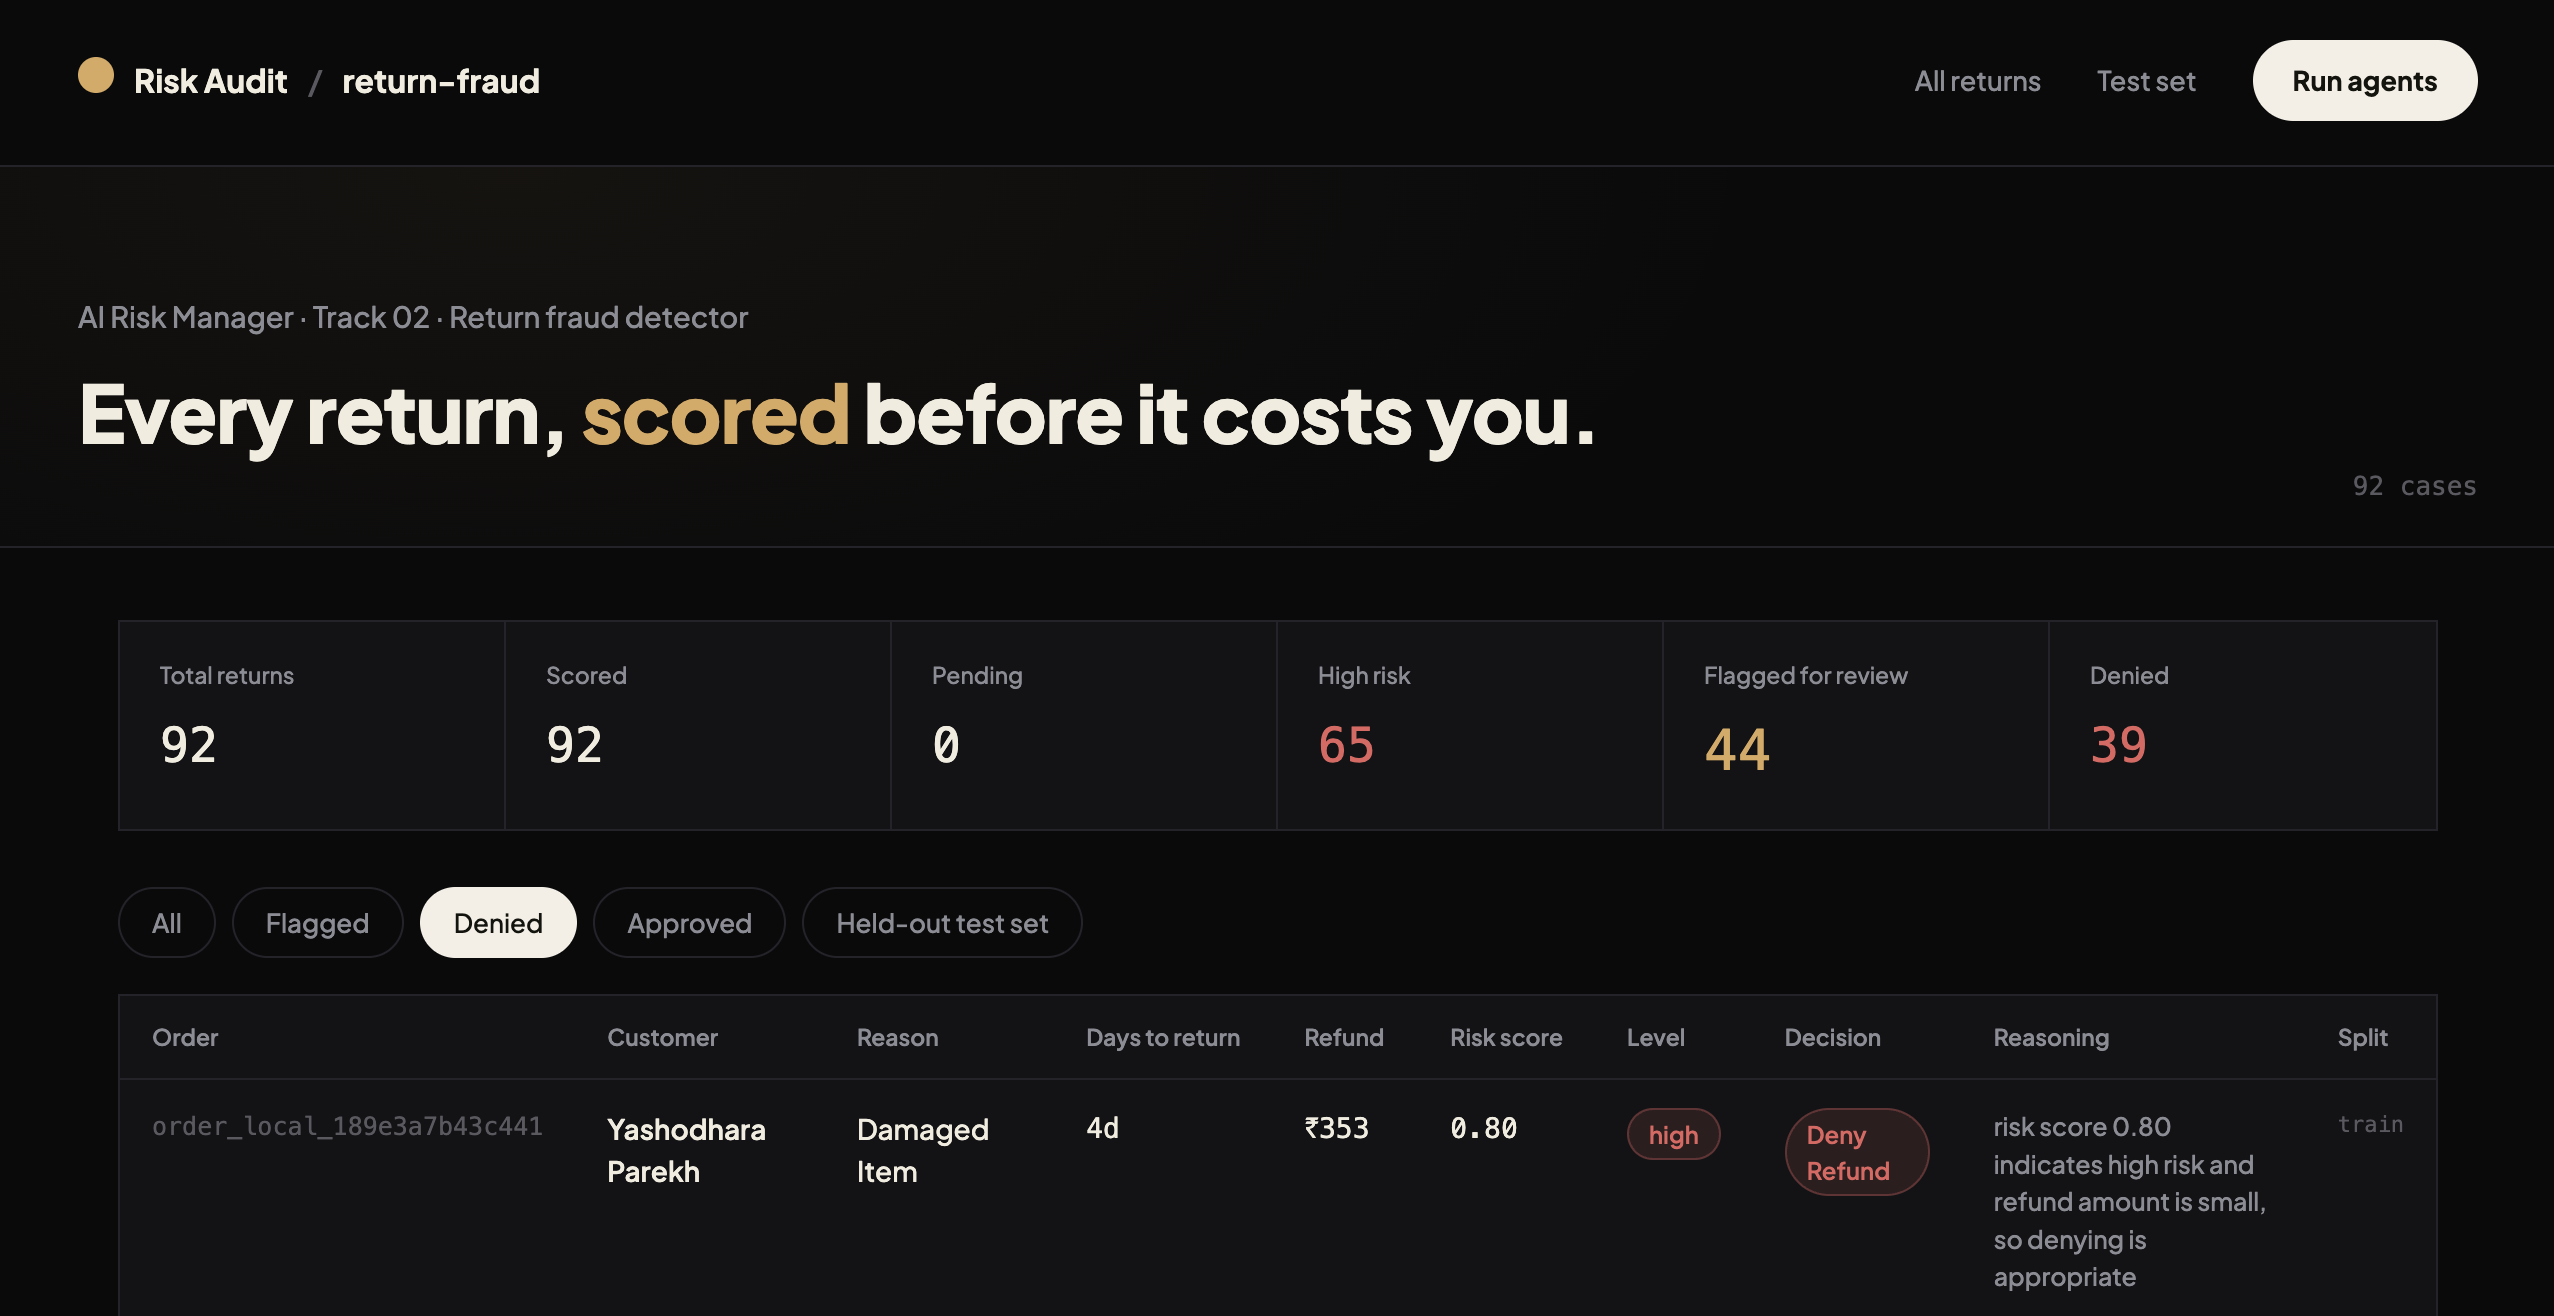
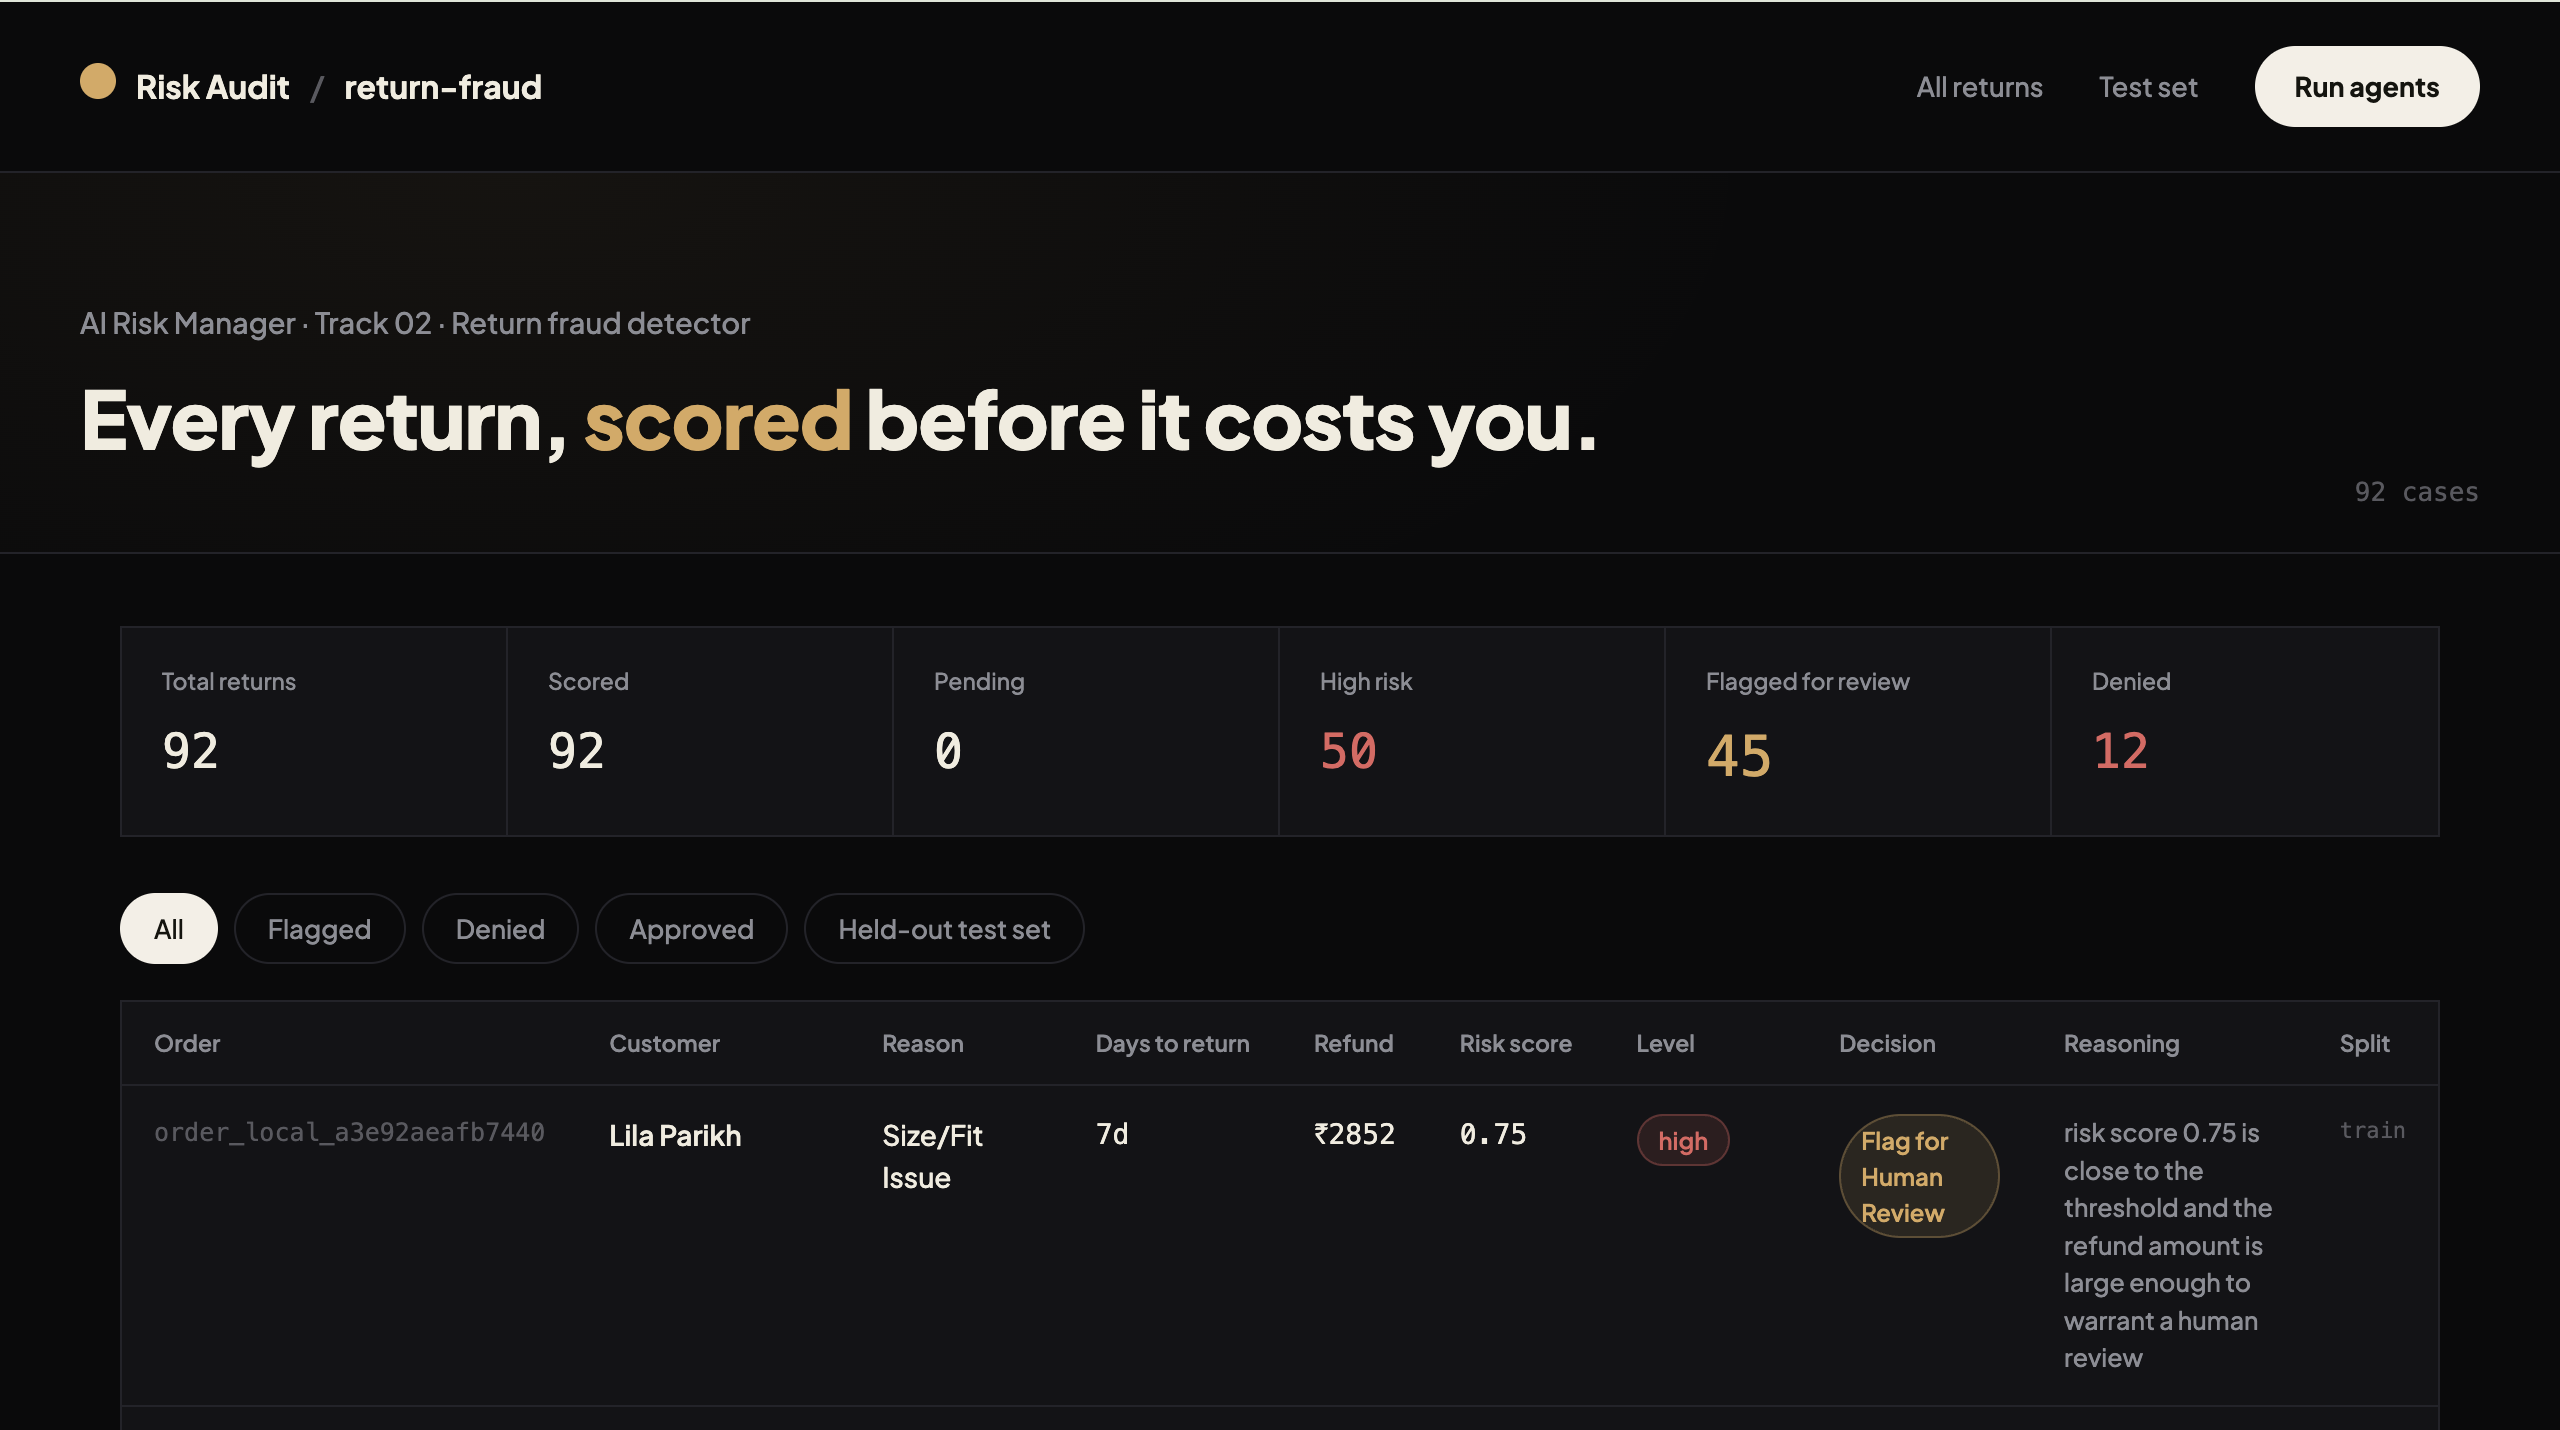
Update manager agent and dashboard screenshot

diff --git a/risk/services/manager_agent.py b/risk/services/manager_agent.py
@@ -14,6 +14,12 @@ import json
 from risk.models import RiskVerdict, ManagerDecision
 from risk.services.llm_client import call_llm
 
+# Returns scoring below this are approved deterministically, without an LLM
+# call - there's no ambiguity worth spending a model call on. The LLM is
+# reserved for the genuinely uncertain middle and high-risk cases, where its
+# judgment (weighing refund amount against confidence) actually adds value.
+AUTO_APPROVE_THRESHOLD = 0.45
+
 SYSTEM_PROMPT = """You are the Manager Agent for an e-commerce return/refund system.
 
 You receive a risk assessment from the Risk Agent and must decide what
@@ -22,15 +28,21 @@ the merchant from loss while being fair to genuine customers. You never
 suggest ways to exploit or evade this process.
 
 Decision rules:
-- "approve": low risk. Refund proceeds normally.
-- "flag_for_review": medium risk, or high risk but the refund amount is
-  large enough that a human should confirm before denying (protects
-  genuine customers from an automated wrong call on big-ticket items).
-- "deny": high risk AND refund amount is small/moderate, where the cost
-  of a wrong denial is low relative to the fraud risk avoided.
+- If the risk score is comfortably below 0.80 (this system's risk threshold), and
+  nothing else in the reasoning stands out as an unusually strong red flag,
+  lean toward "approve". Most genuine returns should pass through smoothly —
+  do not treat "medium" as automatically suspicious.
+- "flag_for_review": risk score at or above 0.80, OR a borderline score (roughly
+  0.6-0.79) combined with a refund amount large enough that a human should
+  confirm before denying (protects genuine customers from an automated wrong
+  call on big-ticket items).
+- "deny": risk score at or above 0.80 AND the refund amount is small/moderate,
+  where the cost of a wrong denial is low relative to the fraud risk avoided.
 
 Always err toward "flag_for_review" over "deny" when you are not confident,
-since a wrongful denial damages customer trust.
+since a wrongful denial damages customer trust. But do not be afraid to
+"approve" outright when the risk score is genuinely low — flagging every
+return for review defeats the purpose of having a risk score at all.
 
 Respond with ONLY a JSON object, no other text, in exactly this shape:
 {
@@ -47,9 +59,24 @@ quoting them.
 def decide(risk_verdict: RiskVerdict) -> ManagerDecision:
     return_request = risk_verdict.return_request
 
+    # Deterministic fast path: clearly low-risk returns don't need an LLM call.
+    if risk_verdict.risk_score < AUTO_APPROVE_THRESHOLD:
+        decision_obj, _ = ManagerDecision.objects.update_or_create(
+            risk_verdict=risk_verdict,
+            defaults={
+                "decision": "approve",
+                "reasoning": (
+                    f"Risk score {risk_verdict.risk_score:.2f} is well below the "
+                    f"auto-approve threshold ({AUTO_APPROVE_THRESHOLD}); no signals "
+                    f"strong enough to warrant review. Approved automatically."
+                ),
+            },
+        )
+        return decision_obj
+
     case_context = f"""Risk Agent assessment:
-- Risk score: {risk_verdict.risk_score:.2f}
-- Risk level: {risk_verdict.risk_level}
+- Risk score: {risk_verdict.risk_score:.2f} (this system's risk threshold is 0.80 — scores below that are NOT predicted risky)
+- Risk level label: {risk_verdict.risk_level} (a rough qualitative tag - trust the numeric score above more)
 - Risk reasoning: {risk_verdict.reasoning}
 
 Refund amount at stake: ₹{return_request.refund_amount / 100:.2f}
